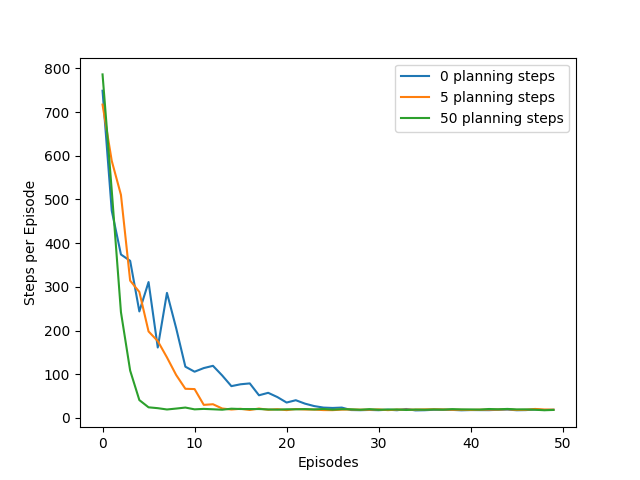
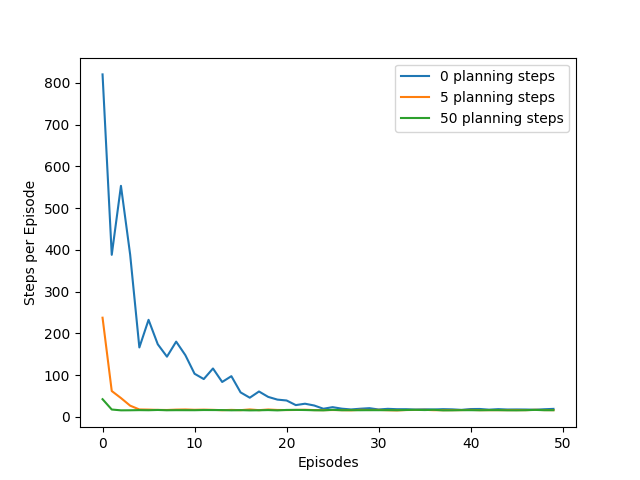
second commit

diff --git a/Chapter8/Figure8-2.py b/Chapter8/Figure8-2.py
@@ -64,10 +64,15 @@ class DynaMaze(object):
 
         return next_state, reward
 
-    def tabular_dyna_q(self, q_value):
+    def tabular_dyna_q(self, q_value, model):
+        """
+        the Tabular Dyna-Q algorithm
+        :param q_value:
+        :param model: the model to store the previous experience
+        :return:
+        """
         state = self.start      # the start state
         steps = 0               # the number of steps
-        model = {}              # the model to store the previous experience
 
         while any(state != self.goal):              # !!!!!!
             steps += 1  # tracking the number of steps per episode
@@ -77,10 +82,10 @@ class DynaMaze(object):
             max_value = np.max(q_value[:, next_state[0], next_state[1]])
             q_value[action, state[0], state[1]] += self.alpha*(reward + self.gama*max_value -
                                                                q_value[action, state[0], state[1]])
-            building(model, state, action, next_state, reward)           # building the model
+            model.building(state, action, next_state, reward)           # building the model
             # sampling from the model
             for num in range(self.planning_steps):
-                sta, act, next_sta, rew = sampling(model)               # sampling from model
+                sta, act, next_sta, rew = model.sampling()               # sampling from model
                 # Q-learning algorithm to update the state-action value
                 max_val = np.max(q_value[:, next_sta[0], next_sta[1]])
                 q_value[act, sta[0], sta[1]] += self.alpha*(rew + self.gama*max_val -
@@ -89,34 +94,35 @@ class DynaMaze(object):
         return steps
 
 
-def building(model, state, action, next_state, reward):
-    """
-    building the model according to the previous experiences
-    :param model: type:dict
-    :param state: the current state
-    :param action: the selected action under the current state
-    :param next_state:
-    :param reward:
-    :return:
-    """
-    if tuple(state) not in model.keys():
-        model[tuple(state)] = {}
-    model[tuple(state)][action] = [tuple(next_state), reward]
+class Model(object):
+    def __init__(self):
+        self.model = {}
 
+    def building(self, state, action, next_state, reward):
+        """
+        building the model according to the previous experiences
+        :param state: the current state
+        :param action: the selected action under the current state
+        :param next_state:
+        :param reward:
+        :return:
+        """
+        if tuple(state) not in self.model.keys():
+            self.model[tuple(state)] = {}
+        self.model[tuple(state)][action] = [tuple(next_state), reward]
 
-def sampling(model):
-    """
-    random previously observed state and action
-    :param model: type:dict
-    :return:
-    """
-    state_index = np.random.choice(range(len(model.keys())))
-    current_state = list(model)[state_index]
-    action_index = np.random.choice(range(len(model[current_state].keys())))
-    action = list(model[current_state])[action_index]
-    next_state, reward = model[current_state][action]
+    def sampling(self):
+        """
+        random previously observed state and action
+        :return:
+        """
+        state_index = np.random.choice(range(len(self.model.keys())))
+        current_state = list(self.model)[state_index]
+        action_index = np.random.choice(range(len(self.model[current_state].keys())))
+        action = list(self.model[current_state])[action_index]
+        next_state, reward = self.model[current_state][action]
 
-    return np.array(current_state), action, np.array(next_state), reward
+        return np.array(current_state), action, np.array(next_state), reward
 
 
 if __name__ == "__main__":
@@ -124,6 +130,7 @@ if __name__ == "__main__":
     episodes = 50   # the number of episodes
 
     plan_steps = [0, 5, 50]
+    original_model = Model()
     all_runs_steps = np.zeros((len(plan_steps), episodes))
 
     for run in tqdm(range(runs)):
@@ -131,7 +138,7 @@ if __name__ == "__main__":
             dyna_maze = DynaMaze(planning_steps=planning)
             q_values = dyna_maze.q_value.copy()
             for ep in range(episodes):
-                all_runs_steps[idx, ep] += dyna_maze.tabular_dyna_q(q_values)
+                all_runs_steps[idx, ep] += dyna_maze.tabular_dyna_q(q_values, original_model)
     all_runs_steps /= runs
     # print(q_values)
 
